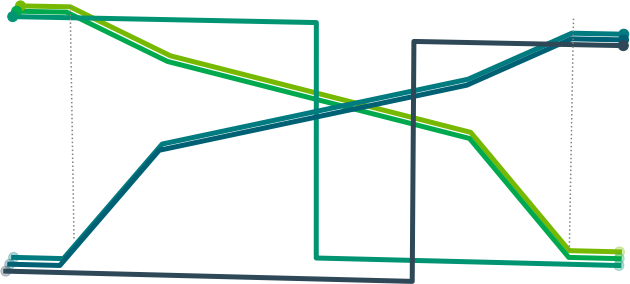
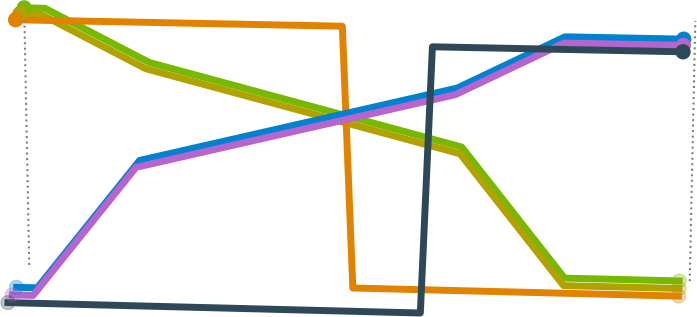
new selector graphics

Changed region(s): [[0.0, 0.0, 1.0, 1.0]]

diff --git a/src/components/SongList.vue b/src/components/SongList.vue
@@ -36,21 +36,33 @@
       </div>
     </div>
     <v-expansion-panels>
-      <v-expansion-panel v-for="song in songs" :key="song.id">
+      <v-expansion-panel v-for="song in songs"
+                         :key="song.id"
+                         @click="playbackSong(song)">
         <v-expansion-panel-header>
           <div class="songDiv">
-            <div class="songNameLabel">{{song.title}}</div>
-            <div class="songLengthLabel">{{song.length}}</div>
-            <div class="songTempoLabel">{{song.tempo}}</div>
+            <div class="songNameLabel">{{ song.title }}</div>
+            <div class="songLengthLabel">{{ song.length }}</div>
+            <div class="songTempoLabel">{{ song.tempo }}</div>
+          </div>
+        </v-expansion-panel-header>
+        <v-expansion-panel-content>
+          <div class="songDiv">
+            <div v-if="playbackFile !== ''">
+              <vue-plyr>
+                <audio controls crossorigin playsinline>
+                  <source
+                      v-bind:src="playbackFile"
+                      type="audio/mp3"
+                  />
+                </audio>
+              </vue-plyr>
+            </div>
             <div class="deleteDiv">
               <button class="deleteButton" v-on:click="deleteSong(song)">
                 Delete
               </button>
             </div>
-          </div>
-        </v-expansion-panel-header>
-        <v-expansion-panel-content>
-          <div class="songDiv">
           </div>
         </v-expansion-panel-content>
       </v-expansion-panel>
@@ -58,7 +70,7 @@
   </div>
 </template>
 
-<script >
+<script>
 import Song from "../model/Song";
 import DataService from "@/services/DataService";
 
@@ -66,31 +78,29 @@ import DataService from "@/services/DataService";
 // TODO table header
 
 export default {
-  components: {
-    VuetifyAudio: () => import('vuetify-audio')
-  },
   data() {
     return {
       uploading: false,
-      file: ''
+      file: '',
+      playbackFile: ''
     }
   },
   computed: {
-    songs(){
+    songs() {
       return this.$store.getters.getSongs;
     },
-    canUpload(){
+    canUpload() {
       return !!this.$store.getters.isLoggedIn;
     }
   },
   created() {
-    if(this.$store.getters.isLoggedIn){
+    if (this.$store.getters.isLoggedIn) {
       this.$store.dispatch('fetchSongs')
     }
   },
   methods: {
-    async deleteSong(song){
-      if(confirm("Do you really want to delete Song "+song.title+"?")){
+    async deleteSong(song) {
+      if (confirm("Do you really want to delete Song " + song.title + "?")) {
         const delete_response = await DataService.deleteSong(song.id)
         if (delete_response === undefined)
           alert("Song Deletion failed")
@@ -100,32 +110,52 @@ export default {
         }
       }
     },
-    startUpload(){
+    startUpload() {
       this.uploading = true
     },
-    handleFileUpload(){
+    handleFileUpload() {
       this.file = this.$refs.songFile.files[0]
     },
-    async uploadSong(song){
+    async uploadSong(song) {
       const song_filename = this.file.name
       const song_data = song_filename.split('.')
       const song_name = song_data[0]
       const song_extension = song_data[1]
-      const song_response = await DataService.uploadSong(song_name, song_extension, this.file)
-      if (song_response === undefined) {
+      const song_upload_response = await DataService.uploadSong(song_name, song_extension, this.file)
+      if (song_upload_response === undefined) {
         alert("Song upload failed")
       } else {
-        console.log(song_response)
+        console.log(song_upload_response)
         const song = new Song(
-            song_response.data.title,
-            song_response.data.length,
-            song_response.data.bpm,
-            song_response.data.id
+            song_upload_response.data.title,
+            song_upload_response.data.length,
+            song_upload_response.data.bpm,
+            song_upload_response.data.id
         )
         await this.$store.commit('addSong', song)
         this.uploading = false
         await this.$store.dispatch("fetchSongs")
       }
+    },
+    async playbackSong(song) {
+      this.playbackFile = ''
+      this.playbackFile = "http://localhost:9001/getSong?name="+song.title_mp3
+      console.log("fetching song "+song.title_mp3+" for playback")
+      // console.log('fetching song playback')
+      // const song_download_response = await DataService.getSongFile(song.title_mp3)
+      // if (song_download_response === undefined) {
+      //   console.log("song download failed")
+      //   this.playbackFile = ''
+      // } else {
+      //   console.log(song_download_response)
+      //   let blob = new Blob([song_download_response.data])
+      //   let link = document.createElement('a')
+      //   link.href = window.URL.createObjectURL(blob)
+      //   link.setAttribute('download', song.title_mp3)
+      //
+      //   this.playbackFile = link
+      //   console.log(this.playbackFile)
+      // }
     }
   }
 
@@ -137,50 +167,67 @@ export default {
   width: 100%;
   height: 20px;
 }
-.songDiv{
+
+.songDiv {
   width: 100%;
 }
-.songUploadDiv{
+
+.songUploadDiv {
   display: inline-block;
   vertical-align: middle;
   width: 40%;
 }
-.songNameLabel{
+
+.songNameLabel {
   display: inline-block;
   vertical-align: middle;
   text-align: center;
   margin-left: 10%;
   width: 30%;
 }
-.songNameLabel > span{
+
+.songNameLabel > span {
   font-size: medium;
 }
-.songTempoLabel{
+
+.songTempoLabel {
   display: inline-block;
   vertical-align: middle;
   text-align: center;
   width: 5%;
   margin-left: 5%;
 }
-.songTempoLabel > span{
+
+.songTempoLabel > span {
   font-size: medium;
 }
-.songLengthLabel{
+
+.songLengthLabel {
   display: inline-block;
   vertical-align: middle;
   text-align: center;
   width: 5%;
   margin-left: 5%;
 }
-.songLengthLabel > span{
+
+.songLengthLabel > span {
   font-size: medium;
 }
-.deleteDiv{
+
+.playbackDiv {
+  display: inline-block;
+  vertical-align: middle;
+  align-self: center;
+
+}
+
+.deleteDiv {
   display: inline-block;
   vertical-align: middle;
   align-self: center;
 }
-.deleteButton{
+
+.deleteButton {
   color: white;
   font-size: 16px;
   background-color: #ff5d44;
@@ -188,7 +235,8 @@ export default {
   padding: 10px 20px;
   border-radius: 4px;
 }
-.deletePlaceholder{
+
+.deletePlaceholder {
   color: white;
   font-size: 16px;
   background-color: white;
@@ -196,7 +244,8 @@ export default {
   padding: 10px 20px;
   border-radius: 4px;
 }
-.uploadButton{
+
+.uploadButton {
   margin: 20px;
   font-size: 16px;
   background-color: #76b900;
@@ -204,7 +253,8 @@ export default {
   color: white;
   padding: 10px 20px;
 }
-.uploadButton:disabled{
+
+.uploadButton:disabled {
   margin: 20px;
   font-size: 16px;
   background-color: lightgrey;

diff --git a/src/components/MixCreate.vue b/src/components/MixCreate.vue
@@ -90,9 +90,7 @@
           </div>
         </div>
         <div class="scenarioLegend">
-          <img width="140px"
-               height="140px"
-               src="@/assets/legend.png"/>
+          <img src="@/assets/legend.png"/>
         </div>
       </div>
       <div>
@@ -100,14 +98,14 @@
           <button class="scenarioButton"
                   v-on:click="selectScenario('EQ_1.0')"
                   :disabled="scenario === 'EQ_1.0'">
-            <img class="scenarioPreview" src="@/assets/EQ_01.png"/>
+            <img class="scenarioPreview" src="@/assets/EQ.png"/>
           </button>
         </div>
         <div class="scenarioBlock">
           <button class="scenarioButton"
-                  v-on:click="selectScenario('EQ_2.0')"
-                  :disabled="scenario === 'EQ_2.0'">
-            <img class="scenarioPreview" src="@/assets/EQ_02.png"/>
+                  v-on:click="selectScenario('EQ_1.1')"
+                  :disabled="scenario === 'EQ_1.1'">
+            <img class="scenarioPreview" src="@/assets/EQ_cut.png"/>
           </button>
         </div>
         <div>
@@ -124,7 +122,7 @@
           <button class="scenarioButton"
                   v-on:click="selectScenario('VFF_1.0')"
                   :disabled="scenario === 'VFF_1.0'">
-            <img class="scenarioPreview" src="@/assets/VFF_nocut.png"/>
+            <img class="scenarioPreview" src="@/assets/VFF.png"/>
           </button>
         </div>
         <div class="scenarioBlock">

diff --git a/src/main.js b/src/main.js
@@ -9,12 +9,17 @@ import Axios from 'axios'
 import VueCollapse from "vue2-collapse";
 import Vuetify from "vuetify";
 import 'vuetify/dist/vuetify.min.css';
+import VuePlyr from 'vue-plyr'
+import 'vue-plyr/dist/vue-plyr.css'
 
 Vue.config.productionTip = false
 Vue.use(VueEllipseProgress);
 Vue.use(vueSmoothScroll)
 Vue.use(Vuetify)
 Vue.use(VueCollapse)
+Vue.use(VuePlyr, {
+  plyr:{}
+})
 
 Axios.defaults.headers.common['Authorization'] = `Bearer ${store.state.token}`;
 

diff --git a/src/components/MixList.vue b/src/components/MixList.vue
@@ -60,7 +60,9 @@ export default{
   methods: {
     async pollMixes() {
       setInterval(() => {
-        this.$store.dispatch('fetchMixes')
+        if (this.mixes.filter(x => x.progress < 0).size > 0){
+          this.$store.dispatch('fetchMixes')
+        }
       }, 60000)
     },
     async deleteMix(mix){
